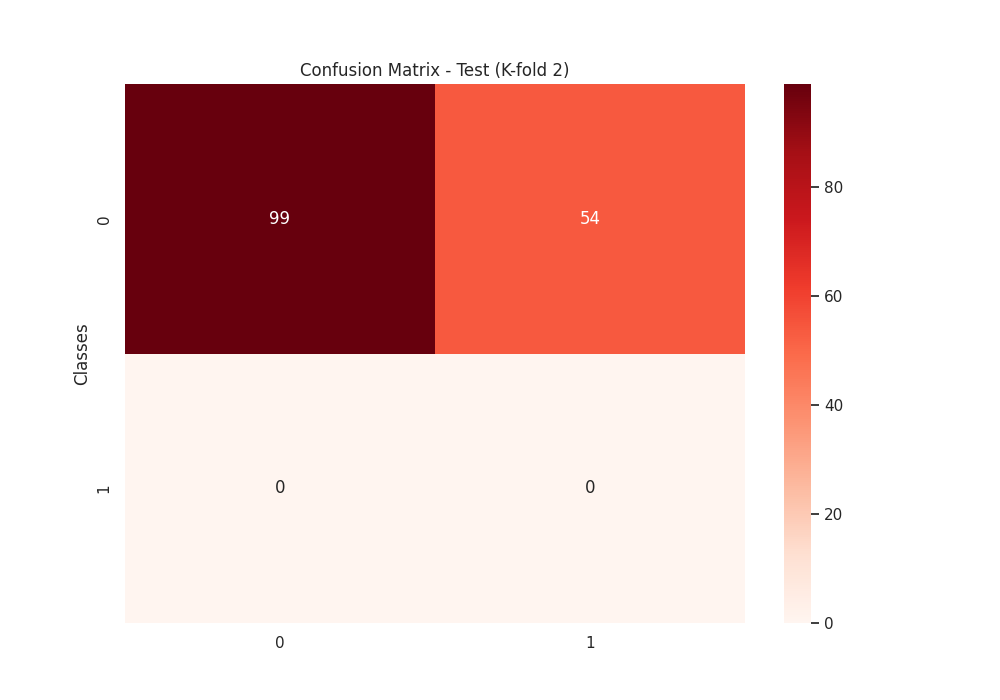
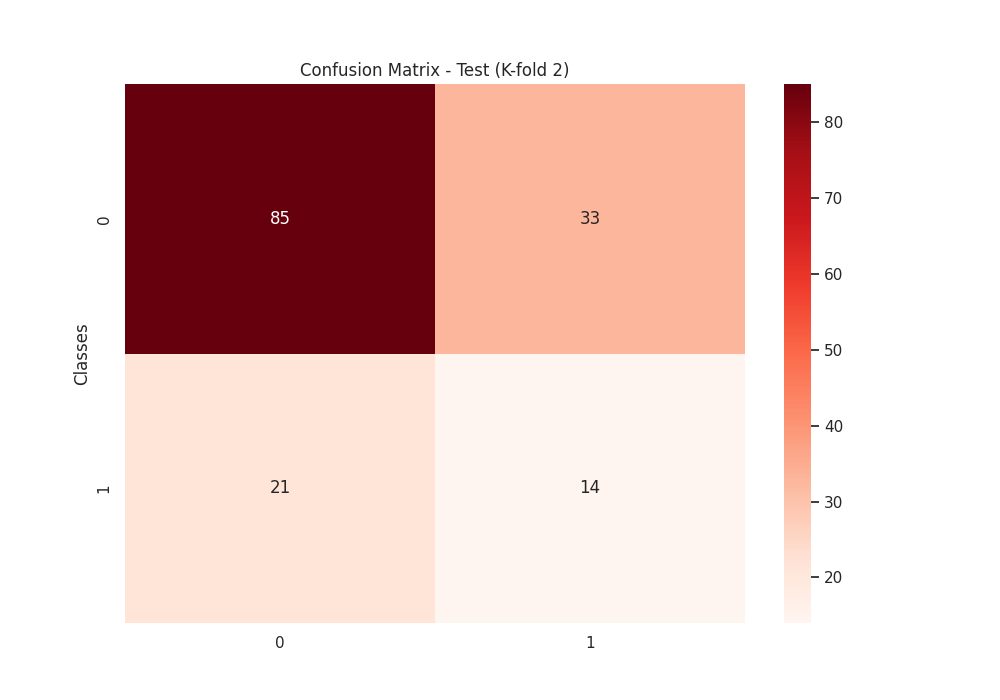
Added results to the results.json and plots

diff --git a/app/controller/training.py b/app/controller/training.py
@@ -72,6 +72,40 @@ def save_parameters_to_conf(params: dict):
         f.write("}\n")
 
 
+# @router.get("/results")
+# async def get_results():
+#     """
+#     Obtiene los resultados del entrenamiento de la red neuronal, incluyendo
+#     el JSON almacenado en results.json y los archivos de imagen (PNG) codificados en Base64.
+
+#     Returns:
+#         dict: Objeto con dos claves: 'results' con los datos JSON y 'images'
+#               con un diccionario de archivos imagen codificados.
+#     """
+#     try:
+#         # Load JSON results from file
+#         results_path = "./app/bnn/output/results.json"
+#         if not os.path.exists(results_path):
+#             raise HTTPException(status_code=404, detail="Results file not found.")
+#         with open(results_path, "r") as f:
+#             results_data = json.load(f)
+
+#         # Load any PNG images from the output folder and encode them
+#         images_folder = "./app/data/plots"
+#         images = {}
+#         for file in os.listdir(images_folder):
+#             if file.endswith(".png"):
+#                 file_path = os.path.join(images_folder, file)
+#                 with open(file_path, "rb") as img_file:
+#                     encoded_image = base64.b64encode(img_file.read()).decode("utf-8")
+#                     images[file] = encoded_image
+
+#         # Return both the JSON results and encoded images
+#         return {"results": results_data, "images": images}
+#     except Exception as e:
+#         raise HTTPException(status_code=500, detail=str(e))
+
+
 @router.get("/results")
 async def get_results():
     """
@@ -79,8 +113,7 @@ async def get_results():
     el JSON almacenado en results.json y los archivos de imagen (PNG) codificados en Base64.
 
     Returns:
-        dict: Objeto con dos claves: 'results' con los datos JSON y 'images'
-              con un diccionario de archivos imagen codificados.
+        dict: Objeto con los datos JSON y las imágenes codificadas en base64.
     """
     try:
         # Load JSON results from file
@@ -90,18 +123,68 @@ async def get_results():
         with open(results_path, "r") as f:
             results_data = json.load(f)
 
-        # Load any PNG images from the output folder and encode them
+        # Load regular PNG images from the plots folder
         images_folder = "./app/data/plots"
         images = {}
-        for file in os.listdir(images_folder):
-            if file.endswith(".png"):
-                file_path = os.path.join(images_folder, file)
-                with open(file_path, "rb") as img_file:
-                    encoded_image = base64.b64encode(img_file.read()).decode("utf-8")
-                    images[file] = encoded_image
+        if os.path.exists(images_folder):
+            for file in os.listdir(images_folder):
+                if file.endswith(".png"):
+                    file_path = os.path.join(images_folder, file)
+                    with open(file_path, "rb") as img_file:
+                        encoded_image = base64.b64encode(img_file.read()).decode(
+                            "utf-8"
+                        )
+                        images[file] = encoded_image
 
-        # Return both the JSON results and encoded images
-        return {"results": results_data, "images": images}
+        # Load CV-specific images from the cv subfolder
+        cv_images_folder = os.path.join(images_folder, "cv")
+        if os.path.exists(cv_images_folder):
+            for file in os.listdir(cv_images_folder):
+                if file.endswith(".png"):
+                    file_path = os.path.join(cv_images_folder, file)
+                    with open(file_path, "rb") as img_file:
+                        encoded_image = base64.b64encode(img_file.read()).decode(
+                            "utf-8"
+                        )
+                        # Add to images with cv/ prefix to distinguish them
+                        images[f"cv/{file}"] = encoded_image
+
+        # Format all numerical results for better readability
+        formatted_results = {}
+
+        # Handle accuracy and epoch specially
+        if "accuracy" in results_data:
+            formatted_results["Accuracy"] = f"{results_data['accuracy']}%"
+        if "epoch" in results_data:
+            formatted_results["Best Epoch"] = str(results_data["epoch"])
+
+        # Format class frequencies
+        if "overall_class_frequency" in results_data:
+            class_freq = []
+            for class_name, count in results_data["overall_class_frequency"].items():
+                class_freq.append(f"{class_name}: {count}")
+            formatted_results["Class Frequency"] = ", ".join(class_freq)
+
+        if "image_class_frequency" in results_data:
+            img_class_freq = []
+            for class_name, count in results_data["image_class_frequency"].items():
+                img_class_freq.append(f"{class_name}: {count}")
+            formatted_results["Image Class Frequency"] = ", ".join(img_class_freq)
+
+        # Handle CV fold class frequencies
+        if "class_frequency" in results_data:
+            for fold, freqs in results_data["class_frequency"].items():
+                fold_freqs = []
+                for class_name, count in freqs.items():
+                    fold_freqs.append(f"{class_name}: {count}")
+                formatted_results[f"Class Frequency ({fold})"] = ", ".join(fold_freqs)
+
+        # Return both the formatted results and encoded images
+        return {
+            "text_results": formatted_results,
+            "raw_results": results_data,
+            "images": images,
+        }
     except Exception as e:
         raise HTTPException(status_code=500, detail=str(e))
 

diff --git a/app/bnn/redneuronal_bay/RedNeuBay.py b/app/bnn/redneuronal_bay/RedNeuBay.py
@@ -537,8 +537,34 @@ class RedNeuBay(object):
             print("---------------------------------------")
             print("--Rendimiento del modelo-Kfold=", (k), "--")
             print("----------------------------------------")
-            print(f"Accuracy test: {np.round(ac*100.0,2)}%")
+            accuracy_value = np.round(ac * 100.0, 2)
+            print(f"Accuracy test: {accuracy_value}%")
             print("---------------------------------------")
+
+            # Save each fold's accuracy to results.json
+            try:
+                results_path = os.path.join(outuput_folder, "results.json")
+
+                # Read existing results if file exists
+                if os.path.exists(results_path):
+                    with open(results_path, "r") as f:
+                        results = json.load(f)
+                else:
+                    results = {}
+
+                # Create or update the fold_accuracies section
+                if "fold_accuracies" not in results:
+                    results["fold_accuracies"] = {}
+
+                # Add this fold's accuracy
+                results["fold_accuracies"][f"fold_{k}"] = float(accuracy_value)
+
+                # Write the updated results back to the file
+                with open(results_path, "w") as f:
+                    json.dump(results, f, indent=4)
+
+            except Exception as e:
+                print(f"Error saving fold accuracy to results.json: {e}")
 
             print("---------------------------------------")
             print("-------matriz de confusión-------------")
@@ -570,3 +596,86 @@ class RedNeuBay(object):
             plt.close()
 
         return ac
+
+    # def cv_predict(self, mod, x, y=0, img=True, image_size=1, target=True, k=0):
+    #     """
+    #     Funcion para predecir
+    #     :x: test
+    #     :regresa: valores predichos
+    #     """
+
+    #     print("----------------------------------------")
+    #     print("--Iniciando predicción Kfold=", (k), "--")
+    #     print("----------------------------------------")
+    #     outputs = []
+
+    #     if img == True:
+    #         enput = x.view(-1, image_size)
+    #     else:
+    #         enput = torch.FloatTensor(x)
+    #         y = torch.Tensor(y)
+
+    #     for i in range(len(mod)):
+    #         layer = mod[i]
+    #         # print('entrada',input.shape)
+    #         # print('pesos',layer.weights.shape)
+    #         # print('sesgo',layer.bias.shape)
+
+    #         a = 1
+    #         Output = layer.funcion_activacion(
+    #             torch.add(torch.matmul(enput, layer.weights), layer.bias), a
+    #         )
+    #         Output = torch.FloatTensor(Output)
+    #         outputs = Output
+    #         enput = Output
+    #         # print(outputs)
+    #         # print('vuelta',i)
+
+    #     _, pred = torch.max(outputs, 1)
+
+    #     if target == False:
+    #         print(pred)
+    #     else:
+    #         # print(pred)
+    #         n_total_row = len(y)
+    #         ac = torch.sum(pred == y).float() / n_total_row
+    #         ac = np.asarray(ac)
+
+    #         # --------
+
+    #         print("---------------------------------------")
+    #         print("--Rendimiento del modelo-Kfold=", (k), "--")
+    #         print("----------------------------------------")
+    #         print(f"Accuracy test: {np.round(ac*100.0,2)}%")
+    #         print("---------------------------------------")
+
+    #         print("---------------------------------------")
+    #         print("-------matriz de confusión-------------")
+    #         print("---------------------------------------")
+
+    #         # Matriz de confusion
+    #         cm = confusion_matrix(pred, y)
+
+    #         # Para ver el numero de targets
+    #         tar = np.unique(y, return_counts=True)
+    #         targ = np.array(tar[0])
+    #         ncat = len(targ)
+    #         # ncat = int(input('How many classes are you going to predict='))
+
+    #         b = listofzeros = [0] * ncat
+    #         for i in range(ncat):
+    #             b[i] = i
+
+    #         cm_test = pd.DataFrame(cm, index=[i for i in b], columns=[i for i in b])
+    #         plt.figure(figsize=(10, 7))
+    #         sns.set(font_scale=1)
+    #         sns.heatmap(
+    #             cm_test, annot=True, cmap=plt.cm.Reds, fmt="d"
+    #         )  # color azul cmap="YlGnBu"
+    #         plt.title(f"Confusion Matrix - Test (K-fold {k})")
+    #         plt.ylabel("Classes")
+    #         # Save the confusion matrix plot instead of displaying it
+    #         plt.savefig(f"{cv_plots_folder}confusion_matrix_kfold_{k}.png")
+    #         plt.close()
+
+    #     return ac
